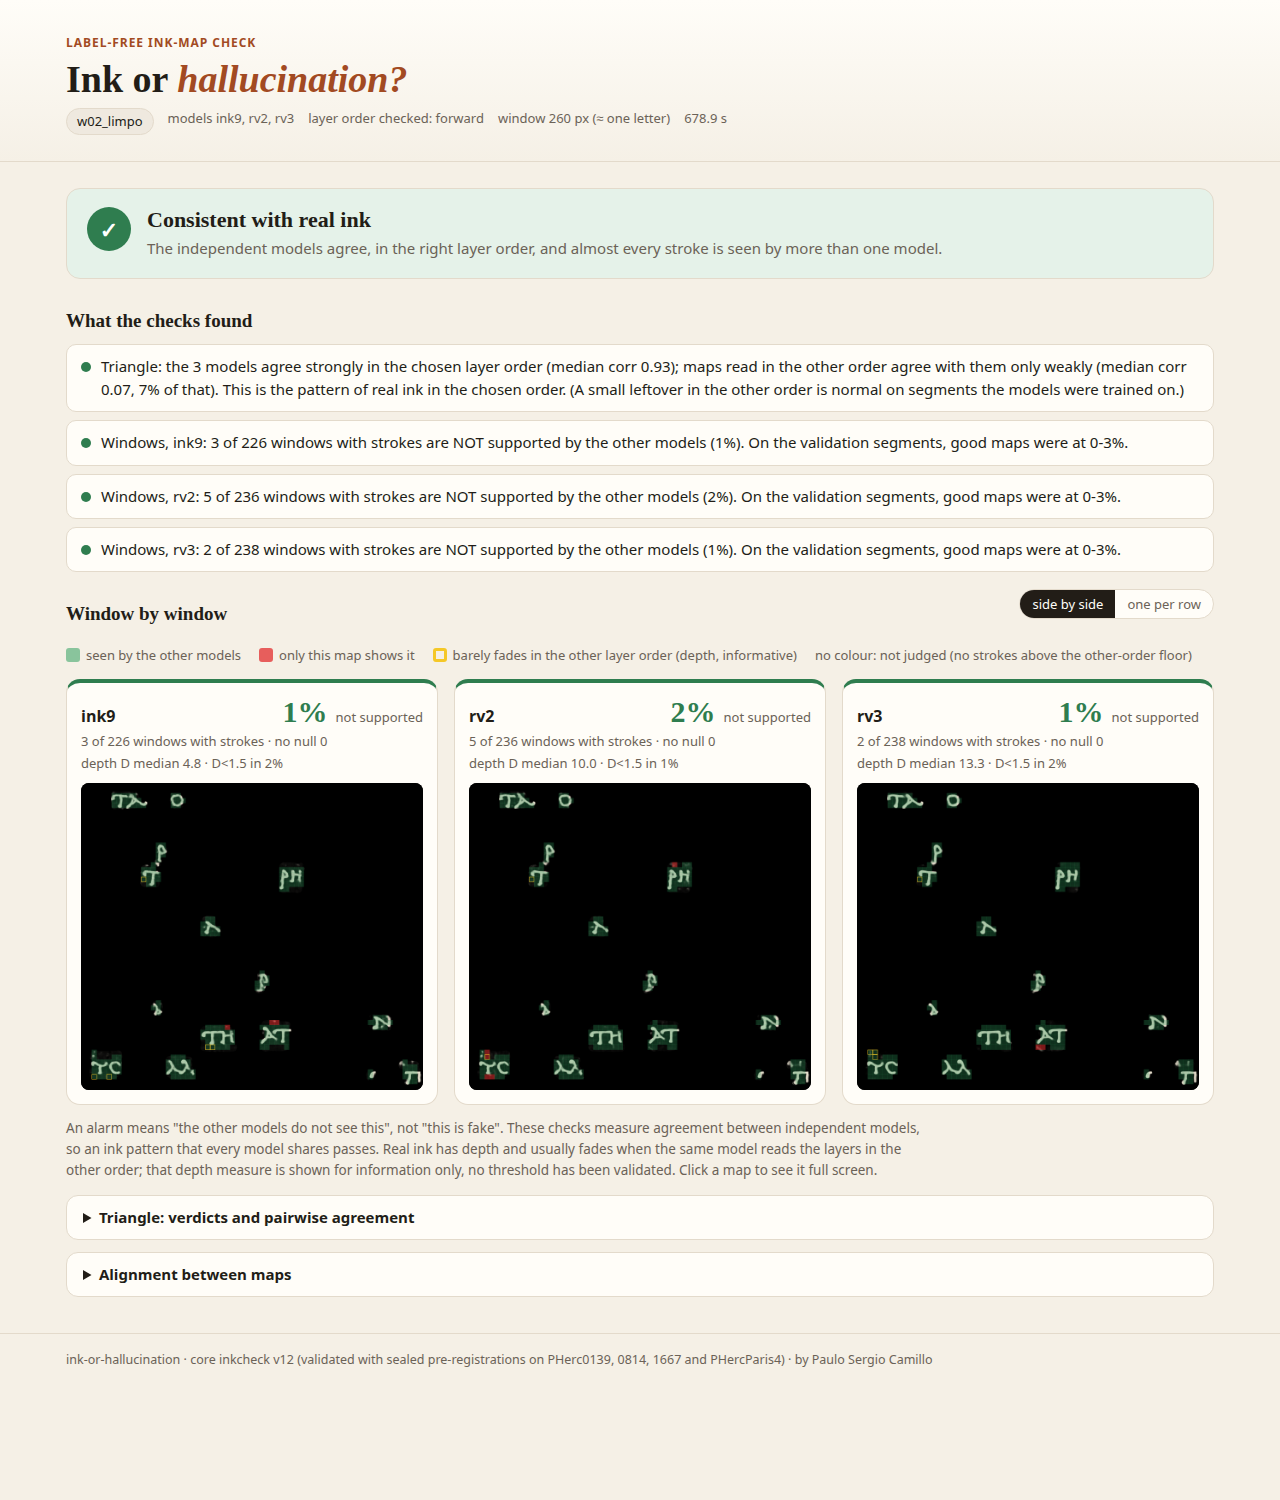
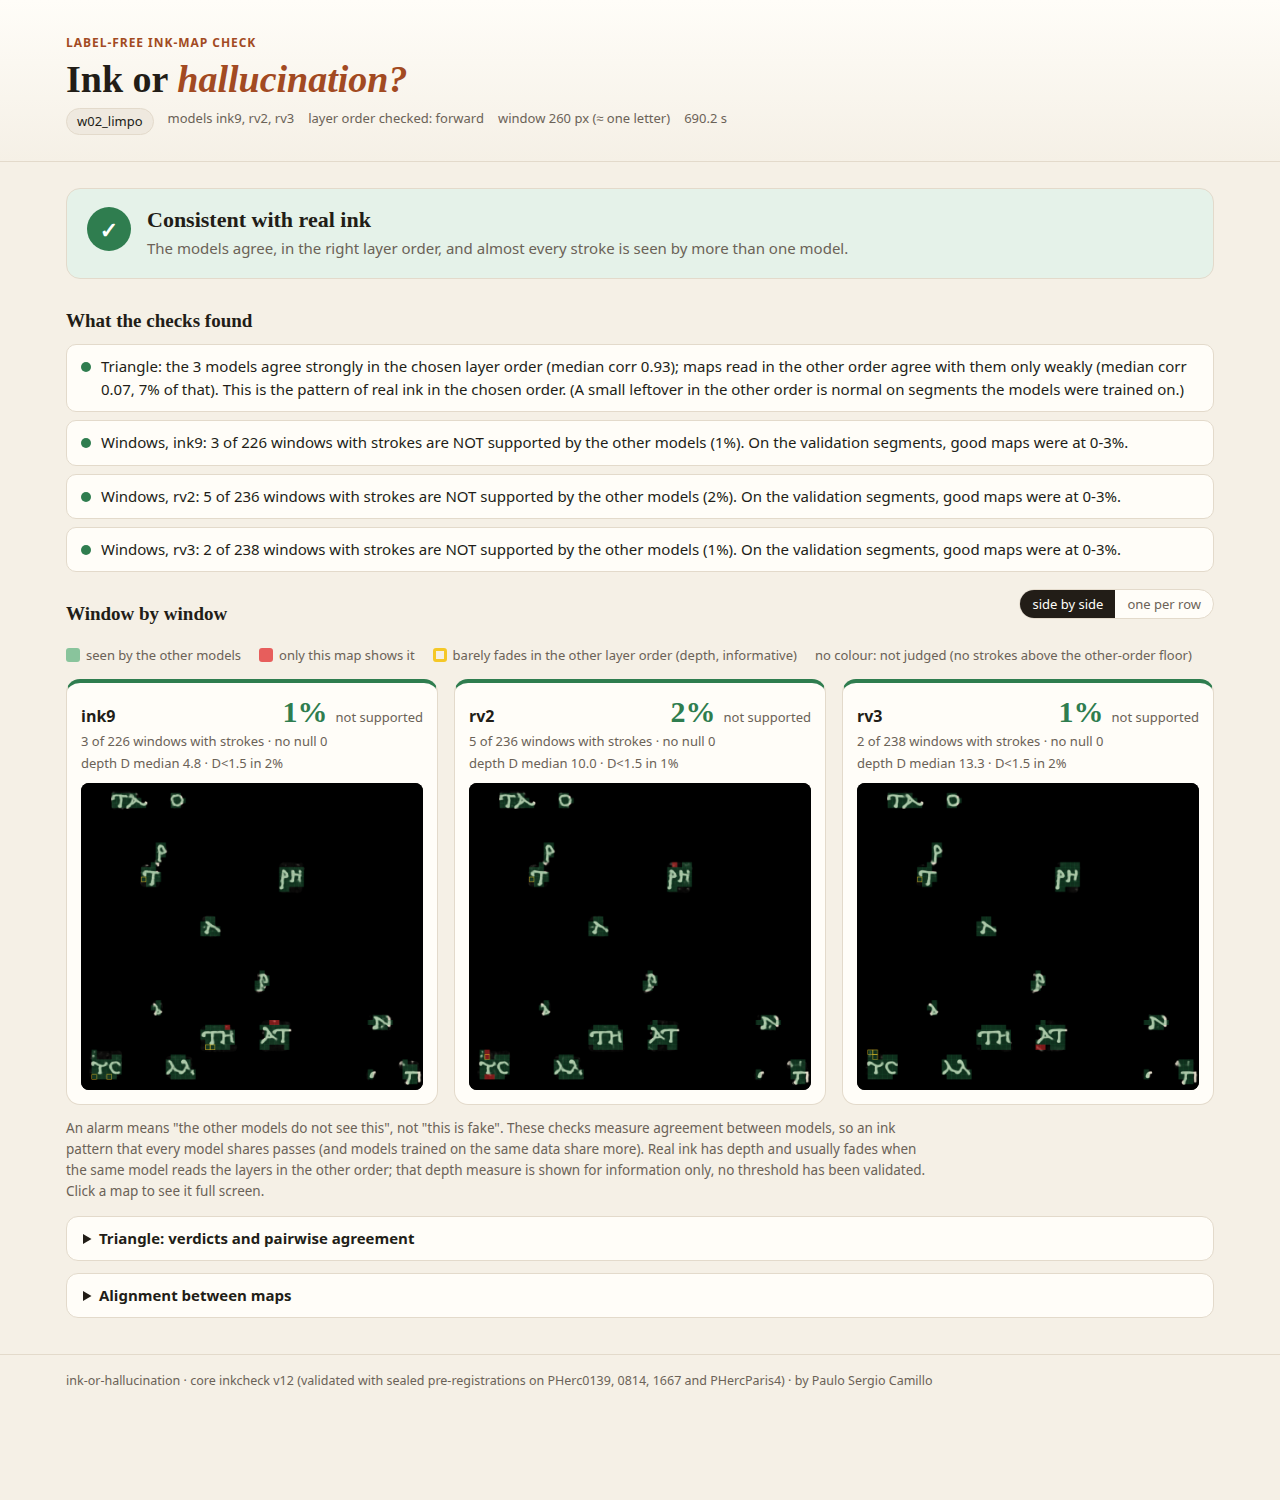
docs: say what the kit is for, and that the three models are related
- README top: the problem the kit solves.
- "independent" removed (README, report, app): all three models share villa's
  architecture and the same 24 training segments, and Reader V3 is Reader v2
  trained further (read from the checkpoint configs). New limit says so.
- Limits regrouped as "Scope and limits".
- Trail row 1: the TRIANGULO test ran on PHerc1447 w058, not PHerc0139.
- Report figures regenerated with the new wording; numbers unchanged.

Claude-Session: https://claude.ai/code/session_0144cnUSP6PzmSKZZZhrntff

Changed region(s): [[0.0312, 0.736, 0.7188, 0.92], [0.2812, 0.1533, 0.7188, 0.184], [0.1562, 0.1533, 0.25, 0.184]]

diff --git a/segment.py b/segment.py
@@ -146,7 +146,7 @@ def run(seg_dir, models, order='forward', mask=None, win=None, px_um=None, win_m
             raise SystemExit(f'missing {m}.tif or {m}_reverse.tif in {seg_dir}')
         good[m], bad[m] = (f, r) if order == 'forward' else (r, f)
     if len(models) < 3:
-        raise SystemExit('need 3+ independent models (the triangle is the point)')
+        raise SystemExit('need 3+ models (the triangle is the point)')
     R = {'segment': os.path.abspath(seg_dir), 'models': models, 'order': order, 'win_px': win, 'mask': mask}
 
     log('1/3 alignment check'); R['alignment'] = alignment(good, mask)
@@ -231,7 +231,7 @@ def to_html(R, out_dir):
         return base64.b64encode(open(p, 'rb').read()).decode() if os.path.exists(p) else ''
     seg = html.escape(os.path.basename(R['segment'].rstrip('/')))
     st = overall(R)
-    head = {'good': ('Consistent with real ink', 'The independent models agree, in the right layer order, and almost every '
+    head = {'good': ('Consistent with real ink', 'The models agree, in the right layer order, and almost every '
                      'stroke is seen by more than one model.'),
             'warn': ('Look closer', 'Some checks raised a flag. Read the points below before trusting this map.'),
             'bad': ('Not supported', 'A large share of this map is not seen by the other models.'),
@@ -332,7 +332,7 @@ footer{{color:var(--soft);font-size:12.5px;border-top:1px solid var(--line);marg
 <span>no colour: not judged (no strokes above the other-order floor)</span></div>
 <div class="grid" id="grid">{cards}</div>
 <p class="note">An alarm means "the other models do not see this", not "this is fake". These checks measure agreement between
-independent models, so an ink pattern that every model shares passes. Real ink has depth and usually fades when the same model
+models, so an ink pattern that every model shares passes (and models trained on the same data share more). Real ink has depth and usually fades when the same model
 reads the layers in the other order; that depth measure is shown for information only, no threshold has been validated.
 Click a map to see it full screen.</p>
 <details><summary>Triangle: verdicts and pairwise agreement</summary><div class="tw">

diff --git a/app.py b/app.py
@@ -12,7 +12,7 @@ import segment as sg
 
 st.set_page_config(page_title='ink-or-hallucination', layout='wide')
 st.title('ink or hallucination?')
-st.caption('Label-free checks for 2.5D ink maps: do independent models see the same strokes, in the right layer order?')
+st.caption('Label-free checks for 2.5D ink maps: do several models see the same strokes, in the right layer order?')
 
 with st.sidebar:
     st.header('Segment')
@@ -28,7 +28,7 @@ with st.sidebar:
             st.success(f'{len(found)} models with both orders: {", ".join(found)}')
         else:
             st.warning('No NAME + NAME_reverse pairs found here.')
-    models = st.multiselect('Models (3 or more, independent)', found, default=found[:3])
+    models = st.multiselect('Models (3 or more; the less related, the stronger the check)', found, default=found[:3])
     order = st.radio('Which file is the right layer order?', ['forward', 'reverse'], horizontal=True,
                      help='forward = NAME.tif, reverse = NAME_reverse.tif. Use the layer-order rule '
                           '(scripts/curvatura.py + scripts/ordem_camadas.py) to decide, before looking at the maps.')

diff --git a/README.md b/README.md
@@ -4,9 +4,11 @@
 
 Label-free checks for 2.5D ink maps: does a map show ink, or something a model made up?
 
-You give it the same segment read by three independent ink models, each in both layer orders. It tells you whether
-the models agree in the right order, and window by window where one map shows strokes the others do not. Every
-check was tested with a sealed pre-registration on public labelled segments before being trusted.
+New 9 µm ink models keep coming, each with cleaner-looking maps, and someone reviewing a claimed letter cannot tell
+from the map alone whether it is ink or something the model drew. This kit gives a label-free answer from what the
+models do: read the same segment with three models, each in both layer orders, and it tells you whether they agree
+in the right order, and window by window where one map shows strokes the others do not. Every check was tested with
+a sealed pre-registration on public labelled segments before being trusted.
 
 | clean map | the same map with invented letters |
 |---|---|
@@ -22,25 +24,29 @@ letters planted in Reader v2. Only that map goes up (1–2% → 13%), and its re
 | check | question | record (sealed, public data) |
 |---|---|---|
 | **layer order** | which way should the render's layers be stacked for the 9 µm models? (mesh + CT only, before running any model) | **60/60** (segment, model) pairs, 20 segments, 4 scrolls |
-| **triangle** | do 3+ independent models agree on this map beyond chance, in that order and not in the other? | **14/14** segments; never put a wrong-order map in the core, even with maps degraded to AUC 0.79 |
+| **triangle** | do 3+ models agree on this map beyond chance, in that order and not in the other? | **14/14** segments; never put a wrong-order map in the core, even with maps degraded to AUC 0.79 |
 | **windows** | where does one map show strokes the other models do not? | blind on PHercParis4: **2.7%** false alarm, **81/81** isolated invented letters, **26%** of invented letters inside real text |
 | **natural hallucinations** | does it flag the mistakes models make on their own? | where a model draws strokes and the label has no ink: flagged **28%** vs **1.6%** on real ink (18×, p ≈ 1e-87, blind) |
 | **depth** (informative) | does a stroke fade when the same model reads the layers in the other order? | real ink fades more than model-made strokes (AUC 0.76 blind; 0.65 on another set). Shown, not used for a verdict |
 
-## What it does not do
+## Scope and limits
 
 - **It measures agreement, not truth.** An ink pattern that every model shares passes.
+- **The three models are not independent.** All three are villa's hybrid 3D/2D network trained on the same 24
+  segments of four scrolls (PHerc0139, 0814, 1667, Paris4); Reader v2 has its own labels and was trained separately,
+  and Reader V3 is Reader v2 trained further. Their agreement rules out chance, not a pattern all three learned from
+  the same data. (Read from the checkpoints' own configs.)
+- **All labelled test segments are in the models' training data.** The stress test (maps degraded to AUC 0.79) is
+  the closest we can get to a new scroll. Below that the kit is untested, and it should say "unresolved" rather
+  than be trusted.
 - **Most invented letters sitting on real strokes are missed:** about 3 in 4.
 - **A model that draws differently from the others gets more alarms.** An alarm means "the other models do not see
   this", not "this is fake".
 - **The windowed score assumes pixel-aligned maps.** The report measures the shift between maps and warns.
-- **All labelled test segments are in the models' training data.** The stress test (maps degraded to AUC 0.79) is
-  the closest we can get to a new scroll. Below that the kit is untested, and it should say "unresolved" rather
-  than be trusted.
-- **Tested with the 9 µm koine models** (ink_9um, Reader v2, Reader V3). The layer-order rule's "reverse" case rests
-  on one calibration segment plus symmetry.
-- **Tested on Linux with real data.** The checks and the report also pass on Windows and macOS (CI on synthetic
-  segments, every push); the end-to-end demo needs `vc_render_tifxyz` and a CUDA GPU.
+- **Scope.** Tested with the 9 µm koine models (ink_9um, Reader v2, Reader V3); the layer-order rule's "reverse"
+  case rests on one calibration segment plus symmetry. Tested on Linux with real data; the checks and the report
+  also pass on Windows and macOS (CI on synthetic segments, every push); the end-to-end demo needs
+  `vc_render_tifxyz` and a CUDA GPU.
 
 ## On a scroll with no labels
 
@@ -118,7 +124,7 @@ failures included. Each fix went into a new pre-registration on data the check h
 
 | # | prereg | data | outcome |
 |---|---|---|---|
-| 1 | TRIANGULO | PHerc0139 w058 | triangle alone failed (mirror group) → led to the order rule |
+| 1 | TRIANGULO | PHerc1447 w058 | triangle alone failed (mirror group) → led to the order rule |
 | 2 | ORDEM | PHerc0139 ×5, 0814 ×1 | order 18/18 PASS; triangle 3/6 FAIL (null bug: NaN draws) |
 | 3 | V3 | PHerc1667 ×6 | order 18/18 PASS; triangle 6/6 PASS after the fix |
 | 4 | V4 | PHerc1667 ×6 | blind probes isolated 6/6; partial invented letters not caught at map level |
